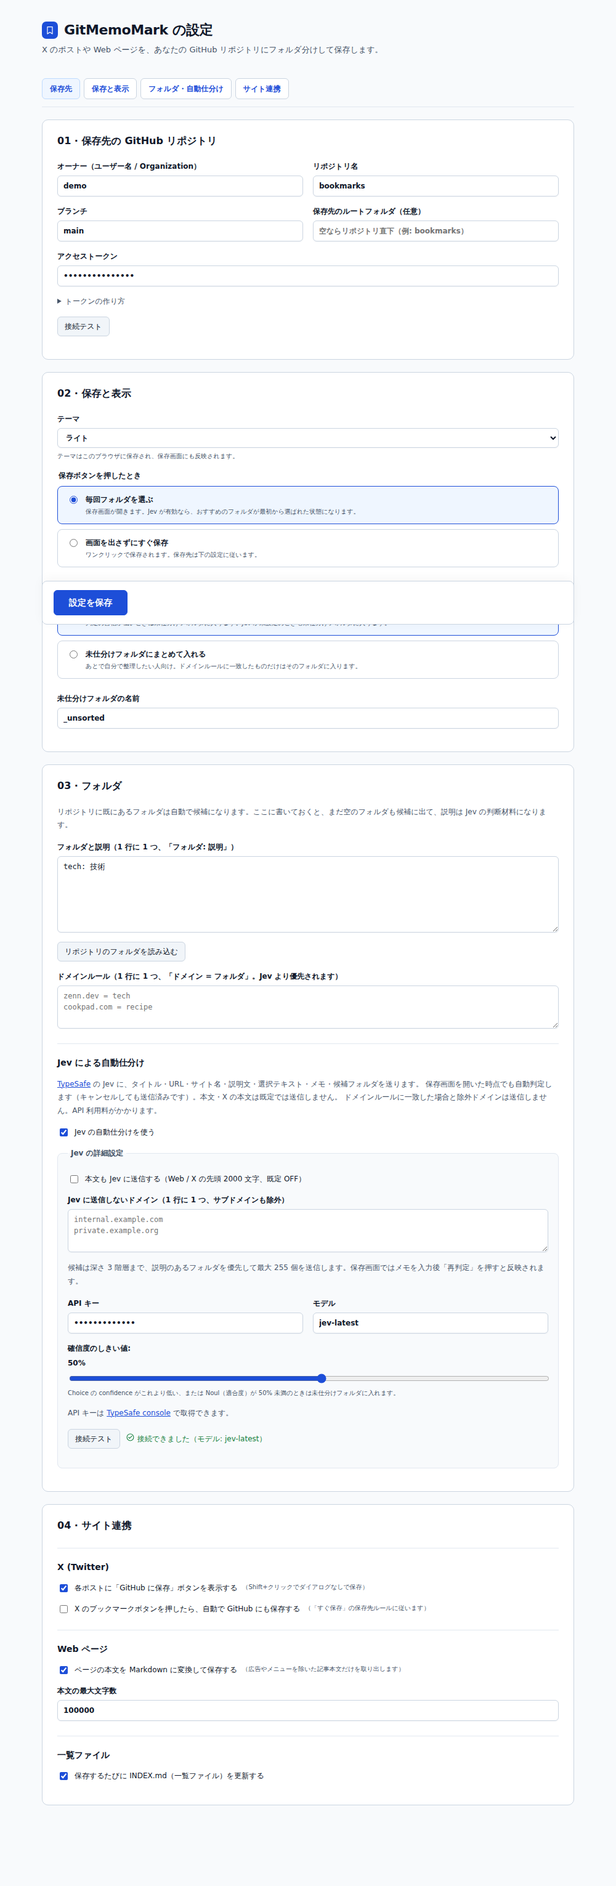
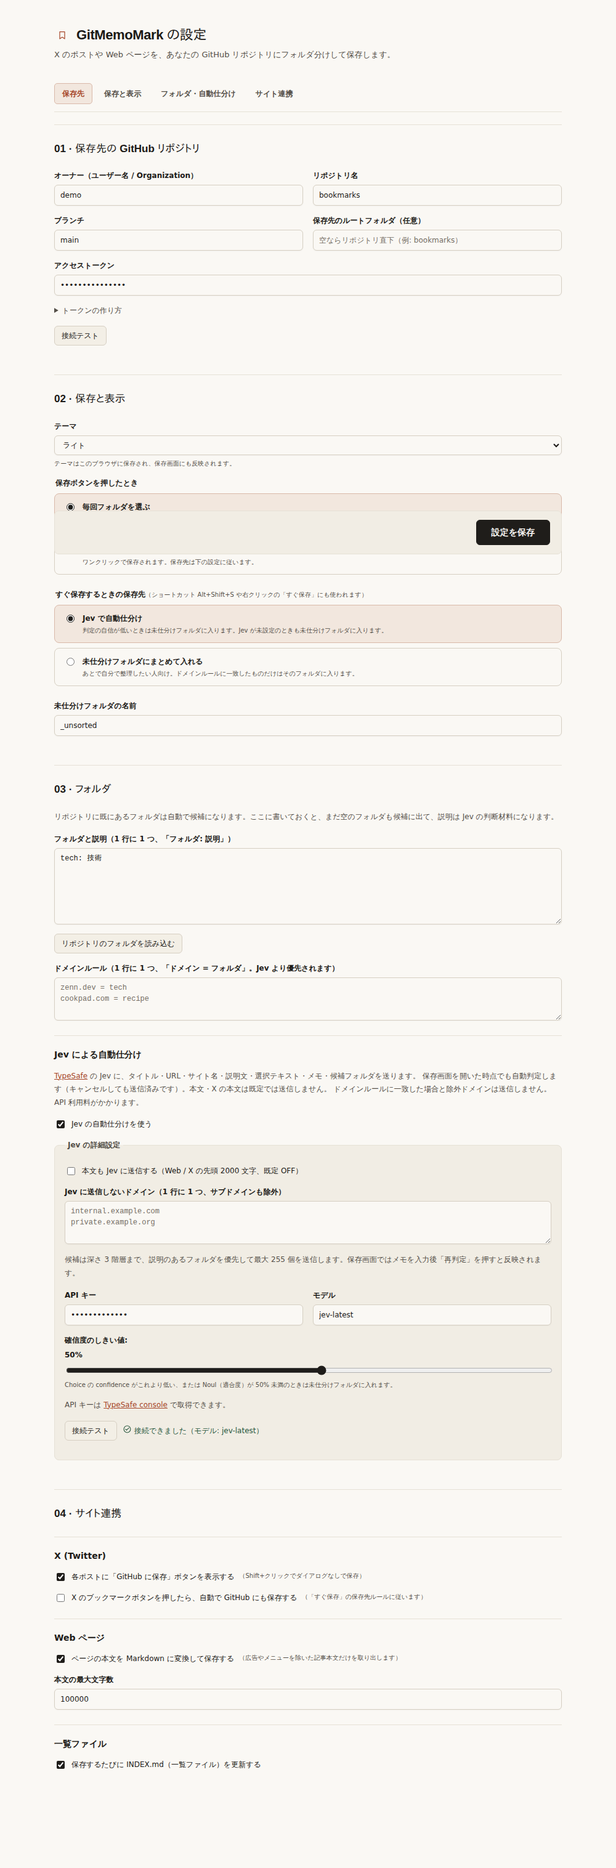
Release v0.2.0 Quiet Editorial UI with paper and ink themes

diff --git a/src/popup/popup.css b/src/popup/popup.css
@@ -1,1 +1,17 @@
-body{width:400px;height:560px;max-height:580px;background:var(--bg-surface);display:flex;flex-direction:column;overflow:hidden}body.window{width:100%;max-width:580px;margin:auto;height:min(580px,100vh)}header{display:flex;align-items:center;gap:6px;padding:12px 14px;border-bottom:1px solid var(--border-subtle);flex:none}h1{display:flex;align-items:center;gap:7px;font-size:14px;margin:0;white-space:nowrap}.repo-label{font:10px ui-monospace,monospace;color:var(--fg-muted);overflow:hidden;white-space:nowrap;text-overflow:ellipsis;margin-left:auto;max-width:120px}.icon-btn{border:0;background:transparent;padding:6px;color:var(--fg-muted);flex:none}#form{display:flex;flex:1;min-height:0;flex-direction:column}.popup-body{padding:14px 16px 4px;overflow-y:auto;min-height:0;flex:1;scrollbar-gutter:stable}.target-card{padding:11px 12px;border:1px solid var(--border-default);border-radius:8px;margin-bottom:12px;background:var(--bg-canvas)}.preview{display:flex;gap:8px;align-items:center;min-width:0;margin-bottom:7px}.badge{font-size:10px;font-weight:600;color:var(--fg-muted);border:1px solid var(--border-default);border-radius:4px;padding:1px 6px;white-space:nowrap}#url{font-size:11px;color:var(--fg-muted);overflow:hidden;text-overflow:ellipsis;white-space:nowrap}.field{display:flex;flex-direction:column;gap:5px;margin-bottom:10px}.field>span,.field-head>label{font-size:12px;font-weight:600}.title-field{margin-bottom:8px}.title-field>span{position:absolute;width:1px;height:1px;overflow:hidden;clip-path:inset(50%)}#title{font-weight:600;background:var(--bg-surface)}.field-head{display:flex;align-items:center;justify-content:space-between}.ghost{background:transparent;border:0;color:var(--accent-text);font-size:11px;padding:2px 0}.ghost svg{width:12px;height:12px}.folder-row{display:flex;gap:6px}.folder-row select{flex:1;min-width:0}.folder-row button{flex:none}#new-folder{margin-top:3px}.hint{white-space:pre-line;font-size:11px;margin:1px 0 0}.hint:empty{display:none}.check{display:flex;align-items:center;gap:5px;font-size:11px;flex-wrap:wrap}.check input{margin:0}.check small{font-size:10px;margin-left:auto}.content-row{margin-top:8px}details{margin-top:8px;border-top:1px solid var(--border-subtle);padding-top:6px}summary{cursor:pointer;color:var(--accent-text);font-size:11px}.preview-label{font-size:10px;color:var(--fg-muted);margin:6px 0}#excerpt,#content-preview{max-height:155px;overflow:auto;white-space:pre-wrap;overflow-wrap:anywhere;font-size:11px;margin:6px 0}#content-preview{font-family:ui-monospace,monospace}.save-footer{flex:none;padding:12px 16px;border-top:1px solid var(--border-subtle);background:var(--bg-surface)}#save{display:flex;align-items:center;justify-content:center;gap:7px;width:100%;padding:10px}#save small{color:#fff;font-size:10px;margin-left:auto;opacity:.85}.status{margin:6px 0 0;white-space:pre-line;font-size:11px;overflow-wrap:anywhere;max-height:64px;overflow-y:auto}.status:empty{display:none}.status.ok::before,.status.ng::before{content:"";display:inline-block;width:12px;height:12px;margin-right:5px;background:currentColor;mask:url("../styles/status.svg") center/contain no-repeat}#setup{padding:24px 20px}#setup h2{font-size:16px}#setup p{color:var(--fg-muted)}@media(max-width:360px){body{width:100%}.repo-label{display:none}header .icon-btn:first-of-type{margin-left:auto}}
+/* Quiet Editorial: a manuscript above an archival colophon. */
+body{width:400px;height:496px;max-height:580px;background:var(--bg-surface);display:flex;flex-direction:column;overflow:hidden}
+body.window{width:100%;max-width:580px;margin:auto;height:min(580px,100vh)}
+header{display:flex;align-items:center;gap:5px;padding:13px 20px 8px 24px;flex:none}
+h1{display:flex;align-items:center;gap:7px;font-size:12px;font-weight:600;color:var(--fg-muted);margin:0;white-space:nowrap}
+.brand-mark{width:13px;height:16px}.brand-mark svg{width:13px;height:13px}
+.repo-label{font:11px var(--font-mono);color:var(--fg-subtle);overflow:hidden;white-space:nowrap;text-overflow:ellipsis;flex:1;min-width:0;margin-left:3px}.repo-label:not(:empty)::before{content:"/";margin-right:7px;color:var(--border-strong)}
+.icon-btn{border:0;background:transparent;padding:5px;color:var(--fg-subtle);flex:none;width:26px;height:26px}.icon-btn svg{width:15px;height:15px}
+#form{display:flex;flex:1;min-height:0;flex-direction:column}.popup-body{overflow-y:auto;min-height:0;flex:1;scrollbar-width:thin;scroll-padding:12px 0;display:flex;flex-direction:column}.manuscript-zone{padding:4px 24px 16px;flex:none}.target-card{margin:0;padding:0;border:0}.preview{display:flex;gap:7px;align-items:center;min-width:0;margin-bottom:7px}.badge{font-size:11px;font-weight:600;color:var(--fg-muted);background:var(--bg-subtle);border-radius:4px;padding:1px 7px;white-space:nowrap}#url{font-size:12px;color:var(--fg-subtle);overflow:hidden;text-overflow:ellipsis;white-space:nowrap;text-decoration:none;flex:1}#url:hover{text-decoration:underline}.edit-nib{width:12px;height:12px;color:var(--fg-subtle)}
+.visually-hidden,.hint.quiet{position:absolute;width:1px;height:1px;overflow:hidden;clip-path:inset(50%)}
+#title{display:block;width:calc(100% + 10px);height:58px;min-height:58px;max-height:104px;margin:0 -5px;padding:3px 5px;border:1px solid transparent;border-radius:6px;background:transparent;box-shadow:none;font:600 17px/1.48 var(--font-headline);letter-spacing:-.01em;resize:none;overflow-y:auto}
+#title:hover{background:var(--bg-subtle-hover)}#title:focus{outline:none;background:var(--bg-control);border-color:var(--accent-border);box-shadow:0 0 0 3px var(--focus-ring)}
+.capture-bar{position:relative;margin-top:9px;min-height:26px}.content-row{padding:4px 91px 4px 0}.check{display:flex;align-items:center;gap:6px;color:var(--fg-muted);font-size:12px;flex-wrap:wrap}.check input{margin:0;width:15px;height:15px;flex:none}.check small{font-size:11px;color:var(--fg-subtle);white-space:nowrap}.check small::before{content:"· ";}details{margin:0}summary{position:absolute;right:-5px;top:0;display:flex;align-items:center;gap:4px;cursor:pointer;color:var(--fg-muted);font-size:12px;padding:4px 5px;border-radius:5px;list-style:none}summary::-webkit-details-marker{display:none}summary svg{width:12px;height:12px}details[open] summary{background:var(--accent-subtle);color:var(--accent-text)}details[open] summary svg{transform:rotate(180deg)}.capture-bar:has(.content-row[hidden]){min-height:26px}.preview-sheet{margin-top:8px;padding:9px 11px;border-left:2px solid var(--accent-text);border-radius:0 6px 6px 0;background:var(--bg-subtle);max-height:150px;overflow-y:auto}.preview-label{font-size:10px;color:var(--fg-subtle);margin:0 0 4px}#excerpt,#content-preview{white-space:pre-wrap;overflow-wrap:anywhere;font-size:11.5px;color:var(--fg-muted);margin:0 0 7px}#content-preview{font:11.5px/1.55 var(--font-mono)}
+.marginalia{border-top:1px solid var(--border-subtle);margin-top:14px;padding-top:12px}.marginalia-head{display:flex;align-items:center;justify-content:space-between;margin-bottom:5px;font-size:12px;color:var(--fg-muted)}.marginalia-head label{font-weight:600}.marginalia-head span{font-size:11px;color:var(--fg-subtle)}.marginalia-well{border-left:2px solid var(--border-default);padding-left:11px}.marginalia-well:focus-within{border-color:var(--accent-text)}#memo{display:block;height:44px;min-height:44px;max-height:150px;border:0;padding:1px 0;background:transparent;box-shadow:none;font:400 13px/1.62 var(--font-sans);resize:vertical}#memo:focus{outline:none;box-shadow:none}
+.colophon-tray{background:var(--bg-canvas);border-top:1px solid var(--border-subtle);padding:13px 24px 14px;display:flex;flex-direction:column;gap:9px;flex:1}.field{display:flex;flex-direction:column;gap:6px}.field-head{display:flex;align-items:center;justify-content:space-between;gap:4px}.filing-title{display:flex;align-items:center;gap:7px;min-width:0}.filing-title label{font-size:12px;font-weight:500;white-space:nowrap;color:var(--fg-muted)}.jev-seal{font-size:10px;white-space:nowrap;padding:1px 6px;border-radius:99px;background:var(--accent-subtle);border:1px solid var(--accent-border);color:var(--accent-text)}.filing-actions{display:flex;gap:1px;margin-right:-5px;flex:none}.ghost{display:inline-flex;align-items:center;gap:2px;background:transparent;border:0;color:var(--fg-muted);font-size:11px;padding:3px 4px;white-space:nowrap}.ghost svg{width:11px;height:11px}.ghost[aria-expanded=true]{background:var(--accent-subtle);color:var(--accent-text)}.folder-row{position:relative}.folder-icon{position:absolute;left:10px;top:11px;width:14px;height:14px;color:var(--fg-subtle);pointer-events:none}#folder{height:36px;padding-left:32px;font-size:13px}#new-folder{height:34px;font:12px var(--font-mono)}.hint{white-space:pre-line;font-size:11px;margin:0;overflow-wrap:anywhere}.hint:empty{display:none}.tags-ledger{display:flex;align-items:center;height:35px;padding:0 10px;border:1px solid var(--border-default);border-radius:7px;background:var(--bg-control)}.tags-ledger label{flex:none;padding-right:9px;margin-right:9px;border-right:1px solid var(--border-subtle);font-size:12px;color:var(--fg-muted)}#tags{flex:1;min-width:0;border:0;padding:0;background:transparent;box-shadow:none;font-size:12.5px}#tags:focus{outline:none;box-shadow:none}.tags-ledger:focus-within{border-color:var(--accent-text);box-shadow:0 0 0 3px var(--focus-ring)}
+.save-footer{flex:none;padding:11px 24px 14px;border-top:1px solid var(--border-subtle);background:var(--bg-canvas)}.footer-actions{display:flex;align-items:center;justify-content:space-between;gap:12px}.shortcut-caption{font-size:11px;color:var(--fg-muted);white-space:nowrap}kbd{font:10px var(--font-mono);padding:1px 4px;border-radius:4px;background:var(--bg-control);border:1px solid var(--border-default);color:var(--fg-muted)}#save{display:inline-flex;align-items:center;justify-content:center;gap:7px;height:36px;padding:0 16px;flex:none;font-size:13px}#save svg{width:13px;height:13px}.status{margin:8px 0 0;white-space:pre-line;font-size:11px;overflow-wrap:anywhere;max-height:64px;overflow-y:auto}.status:empty{display:none}.status.ok::before,.status.ng::before{content:"";display:inline-block;width:12px;height:12px;margin-right:5px;background:currentColor;mask:url("../styles/status.svg") center/contain no-repeat}#setup{padding:24px}#setup h2{font-size:16px}#setup p{color:var(--fg-muted)}
+@media(max-width:360px){body{width:100%}header{padding-inline:16px}.repo-label{display:none}header .icon-btn:first-of-type{margin-left:auto}.manuscript-zone,.colophon-tray,.save-footer{padding-inline:16px}.jev-seal{font-size:9px}.filing-title{gap:4px}.shortcut-caption{font-size:10px}#save{padding-inline:10px}}

diff --git a/src/styles/tokens.css b/src/styles/tokens.css
@@ -1,32 +1,37 @@
+:root {
+  --font-sans: -apple-system,BlinkMacSystemFont,"Hiragino Sans","Hiragino Kaku Gothic ProN","Yu Gothic UI","Yu Gothic","BIZ UDPGothic","Noto Sans JP","Liberation Sans","IPAPGothic",system-ui,sans-serif;
+  --font-headline: "Hiragino Mincho ProN","Yu Mincho","BIZ UDPMincho","Noto Serif JP",var(--font-sans);
+  --font-mono: ui-monospace,"SFMono-Regular",Menlo,Consolas,"Liberation Mono",monospace;
+}
 :root, :root[data-theme="light"] {
         color-scheme: light;
-        --bg-canvas: #f8fafc;
-        --bg-surface: #ffffff;
-        --bg-subtle: #f1f5f9;
-        --bg-subtle-hover: #e2e8f0;
-        --bg-control: #ffffff;
-        --bg-elevated: #ffffff;
+        --bg-canvas: #f1ede4;
+        --bg-surface: #faf8f4;
+        --bg-subtle: #f3efe6;
+        --bg-subtle-hover: #e6e1d6;
+        --bg-control: #faf8f4;
+        --bg-elevated: #faf8f4;
 
-        --fg-default: #0f172a;
-        --fg-muted: #475569;
-        --fg-subtle: #64748b;
-        --fg-on-accent: #ffffff;
+        --fg-default: #1c1a17;
+        --fg-muted: #544f48;
+        --fg-subtle: #766f66;
+        --fg-on-accent: #faf8f4;
 
-        --border-subtle: #e2e8f0;
-        --border-default: #cbd5e1;
-        --border-strong: #94a3b8;
+        --border-subtle: #e6e1d6;
+        --border-default: #d6cfc2;
+        --border-strong: #aea79d;
 
-        --accent-solid: #1d4ed8;
-        --accent-hover: #1e40af;
-        --accent-active: #1e3a8a;
-        --accent-text: #1d4ed8;
-        --accent-subtle: #eff6ff;
-        --accent-border: #bfdbfe;
-        --focus-ring: rgba(29, 78, 216, 0.22);
+        --accent-solid: #1f1d1a;
+        --accent-hover: #322f2a;
+        --accent-active: #171614;
+        --accent-text: #a64629;
+        --accent-subtle: #f2e7de;
+        --accent-border: #d9b9a9;
+        --focus-ring: rgba(166,70,41,.22);
 
-        --ok-fg: #15803d;
-        --ok-bg: #f0fdf4;
-        --ok-border: #bbf7d0;
+        --ok-fg: #28573d;
+        --ok-bg: #e6efe8;
+        --ok-border: #c3d7c8;
 
         --warn-fg: #b45309;
         --warn-bg: #fffbeb;
@@ -41,31 +46,31 @@
       }
 :root[data-theme="dark"] {
         color-scheme: dark;
-        --bg-canvas: #0b0f17;
-        --bg-surface: #111827;
-        --bg-subtle: #1e293b;
-        --bg-subtle-hover: #283548;
-        --bg-control: #0d1320;
-        --bg-elevated: #172033;
+        --bg-canvas: #141311;
+        --bg-surface: #1b1917;
+        --bg-subtle: #2c2925;
+        --bg-subtle-hover: #282521;
+        --bg-control: #211f1c;
+        --bg-elevated: #23201d;
 
-        --fg-default: #f1f5f9;
-        --fg-muted: #94a3b8;
-        --fg-subtle: #8494a9;
-        --fg-on-accent: #ffffff;
+        --fg-default: #efece4;
+        --fg-muted: #aea79d;
+        --fg-subtle: #a39b90;
+        --fg-on-accent: #171614;
 
-        --border-subtle: #1e293b;
-        --border-default: #2a3649;
-        --border-strong: #475569;
+        --border-subtle: #2c2925;
+        --border-default: #494239;
+        --border-strong: #544f48;
 
-        --accent-solid: #2563eb;
-        --accent-hover: #2f6feb;
-        --accent-active: #1d4ed8;
-        --accent-text: #60a5fa;
-        --accent-subtle: rgba(59, 130, 246, 0.14);
-        --accent-border: rgba(96, 165, 250, 0.32);
-        --focus-ring: rgba(96, 165, 250, 0.28);
+        --accent-solid: #ede9e0;
+        --accent-hover: #ffffff;
+        --accent-active: #ded8cb;
+        --accent-text: #dc7c5c;
+        --accent-subtle: rgba(220,124,92,.14);
+        --accent-border: rgba(220,124,92,.3);
+        --focus-ring: rgba(220,124,92,.26);
 
-        --ok-fg: #4ade80;
+        --ok-fg: #92d3ab;
         --ok-bg: rgba(34, 197, 94, 0.12);
         --ok-border: rgba(74, 222, 128, 0.28);
 
@@ -82,31 +87,31 @@
       }
 @media(prefers-color-scheme:dark){:root:not([data-theme]) {
         color-scheme: dark;
-        --bg-canvas: #0b0f17;
-        --bg-surface: #111827;
-        --bg-subtle: #1e293b;
-        --bg-subtle-hover: #283548;
-        --bg-control: #0d1320;
-        --bg-elevated: #172033;
+        --bg-canvas: #141311;
+        --bg-surface: #1b1917;
+        --bg-subtle: #2c2925;
+        --bg-subtle-hover: #282521;
+        --bg-control: #211f1c;
+        --bg-elevated: #23201d;
 
-        --fg-default: #f1f5f9;
-        --fg-muted: #94a3b8;
-        --fg-subtle: #8494a9;
-        --fg-on-accent: #ffffff;
+        --fg-default: #efece4;
+        --fg-muted: #aea79d;
+        --fg-subtle: #a39b90;
+        --fg-on-accent: #171614;
 
-        --border-subtle: #1e293b;
-        --border-default: #2a3649;
-        --border-strong: #475569;
+        --border-subtle: #2c2925;
+        --border-default: #494239;
+        --border-strong: #544f48;
 
-        --accent-solid: #2563eb;
-        --accent-hover: #2f6feb;
-        --accent-active: #1d4ed8;
-        --accent-text: #60a5fa;
-        --accent-subtle: rgba(59, 130, 246, 0.14);
-        --accent-border: rgba(96, 165, 250, 0.32);
-        --focus-ring: rgba(96, 165, 250, 0.28);
+        --accent-solid: #ede9e0;
+        --accent-hover: #ffffff;
+        --accent-active: #ded8cb;
+        --accent-text: #dc7c5c;
+        --accent-subtle: rgba(220,124,92,.14);
+        --accent-border: rgba(220,124,92,.3);
+        --focus-ring: rgba(220,124,92,.26);
 
-        --ok-fg: #4ade80;
+        --ok-fg: #92d3ab;
         --ok-bg: rgba(34, 197, 94, 0.12);
         --ok-border: rgba(74, 222, 128, 0.28);
 
@@ -121,4 +126,6 @@
         --control-shadow: inset 0 1px 2px rgba(0, 0, 0, 0.25);
         --popup-shadow: 0 20px 44px -8px rgba(0, 0, 0, 0.6), 0 0 0 1px rgba(255, 255, 255, 0.08);
       }}
-*{box-sizing:border-box} [hidden]{display:none!important} html{background:var(--bg-canvas);color:var(--fg-default);font:13px/1.5 system-ui,-apple-system,"Segoe UI","Hiragino Sans",sans-serif}body{margin:0}button,input,select,textarea{font:inherit}button{cursor:pointer}input:not([type=checkbox]):not([type=radio]):not([type=range]),select,textarea{width:100%;min-width:0;padding:7px 9px;border:1px solid var(--border-default);border-radius:6px;background:var(--bg-control);color:var(--fg-default);box-shadow:var(--control-shadow)}input[type=checkbox],input[type=radio],input[type=range]{accent-color:var(--accent-solid)}textarea{resize:vertical}button{border:1px solid var(--border-default);border-radius:6px;padding:6px 11px;background:var(--bg-subtle);color:var(--fg-default)}button:hover{background:var(--bg-subtle-hover)}button:disabled{opacity:.55;cursor:default}.primary{background:var(--accent-solid);border-color:var(--accent-solid);color:#fff;font-weight:600}.primary:hover{background:var(--accent-hover)}a{color:var(--accent-text)}small,.note,.hint{color:var(--fg-muted);font-weight:400}:focus-visible{outline:2px solid var(--accent-text);outline-offset:3px;box-shadow:0 0 0 4px var(--focus-ring)}svg{width:16px;height:16px;flex:none;vertical-align:middle;fill:none;stroke:currentColor;stroke-width:1.8;stroke-linecap:round;stroke-linejoin:round}.brand-mark{display:inline-flex;align-items:center;justify-content:center;width:26px;height:28px;border-radius:7px;background:var(--accent-solid);color:white}.ok{color:var(--ok-fg)}.ng{color:var(--ng-fg)}.status.status.ok::before,.result.result.ok::before{mask-image:url("check.svg")}@media(prefers-reduced-motion:reduce){*,*::before,*::after{scroll-behavior:auto!important;animation:none!important;transition:none!important}}
+*{box-sizing:border-box} [hidden]{display:none!important} html{background:var(--bg-canvas);color:var(--fg-default);font:13px/1.5 var(--font-sans);-webkit-font-smoothing:antialiased}body{margin:0}button,input,select,textarea{font:inherit}button{cursor:pointer}input:not([type=checkbox]):not([type=radio]):not([type=range]),select,textarea{width:100%;min-width:0;padding:7px 9px;border:1px solid var(--border-default);border-radius:6px;background:var(--bg-control);color:var(--fg-default);box-shadow:var(--control-shadow)}input[type=checkbox],input[type=radio],input[type=range]{accent-color:var(--accent-solid)}textarea{resize:vertical}button{border:1px solid var(--border-default);border-radius:6px;padding:6px 11px;background:var(--bg-subtle);color:var(--fg-default)}button:hover{background:var(--bg-subtle-hover)}button:disabled{opacity:.55;cursor:default}.primary{background:var(--accent-solid);border-color:var(--accent-solid);color:var(--fg-on-accent);font-weight:600}.primary:hover{background:var(--accent-hover)}a{color:var(--accent-text)}small,.note,.hint{color:var(--fg-muted);font-weight:400}:focus-visible{outline:2px solid var(--accent-text);outline-offset:3px;box-shadow:0 0 0 4px var(--focus-ring)}svg{width:16px;height:16px;flex:none;vertical-align:middle;fill:none;stroke:currentColor;stroke-width:1.8;stroke-linecap:round;stroke-linejoin:round}.brand-mark{display:inline-flex;align-items:center;justify-content:center;width:26px;height:28px;border-radius:7px;background:var(--accent-solid);color:white}.ok{color:var(--ok-fg)}.ng{color:var(--ng-fg)}.status.status.ok::before,.result.result.ok::before{mask-image:url("check.svg")}@media(prefers-reduced-motion:reduce){*,*::before,*::after{scroll-behavior:auto!important;animation:none!important;transition:none!important}}
+
+.brand-mark{background:transparent;color:var(--accent-text);border-radius:0}::placeholder{color:var(--fg-subtle);opacity:1}input,select{font-weight:400}

diff --git a/src/options/options.css b/src/options/options.css
@@ -1,1 +1,65 @@
-html{scroll-padding-top:112px;scroll-padding-bottom:128px}input,select,textarea,button,summary,a{scroll-margin-top:112px;scroll-margin-bottom:128px}body{font-size:14px}main{max-width:920px;margin:0 auto;padding:32px 28px 40px}h1{display:flex;align-items:center;gap:10px;font-size:22px;letter-spacing:-.4px;margin:0 0 6px}.lead{color:var(--fg-muted);margin:0 0 24px;font-size:13px}nav{display:flex;gap:6px;flex-wrap:wrap;position:sticky;top:0;z-index:2;background:var(--bg-canvas);padding:12px 0;border-bottom:1px solid var(--border-subtle);margin-bottom:20px}nav a{padding:7px 12px;background:var(--bg-surface);border:1px solid var(--border-default);border-radius:6px;text-decoration:none;font-size:12px;font-weight:600}nav a:hover,nav a[aria-current]{color:var(--accent-text);background:var(--accent-subtle);border-color:var(--accent-border)}section{background:var(--bg-surface);border:1px solid var(--border-default);border-radius:10px;padding:22px 24px;margin-bottom:20px;scroll-margin-top:80px}h2{margin:0 0 20px;font-size:16px}h3{margin:24px 0 14px;padding-top:20px;border-top:1px solid var(--border-subtle);font-size:14px}label{display:flex;flex-direction:column;gap:6px;margin-bottom:15px;font-weight:600;font-size:12px}label small,legend small{color:var(--fg-muted);font-weight:400}.grid{display:grid;grid-template-columns:repeat(2,minmax(0,1fr));gap:0 16px}textarea{font-family:ui-monospace,SFMono-Regular,monospace;font-size:12px;font-weight:400}input[type=range]{width:100%}fieldset{border:0;padding:0;margin:0 0 15px;min-width:0}legend{font-size:12px;font-weight:600;margin-bottom:8px}label.choice{flex-direction:row;align-items:flex-start;gap:10px;padding:12px 14px;border:1px solid var(--border-default);border-radius:8px;margin-bottom:8px;cursor:pointer;font-weight:400}label.choice:has(input:checked){border-color:var(--accent-text);background:var(--accent-subtle)}label.choice span{display:flex;flex-direction:column;gap:3px}label.choice input,label.check input{margin-top:3px;flex:none}label.check{flex-direction:row;align-items:flex-start;flex-wrap:wrap;gap:8px;font-weight:400}.note{font-size:12px;line-height:1.8;margin:0 0 15px}.help{font-size:12px;margin:0 0 16px;color:var(--fg-muted)}summary{cursor:pointer}.row{display:flex;gap:10px;align-items:center;flex-wrap:wrap;margin-bottom:15px}.secondary{font-size:12px}.result{font-size:12px;overflow-wrap:anywhere}.result.ok::before,.result.ng::before{content:"";display:inline-block;width:13px;height:13px;background:currentColor;mask:url("../styles/status.svg") center/contain no-repeat;margin-right:5px}.savebar{position:sticky;bottom:0;display:flex;align-items:center;gap:14px;padding:14px 18px;background:var(--bg-surface);border:1px solid var(--border-default);border-radius:8px;box-shadow:0 -4px 18px rgb(0 0 0 / .04);z-index:2}.savebar .primary{padding:9px 24px}#jev-fields{padding:16px;border:1px solid var(--border-subtle);border-radius:8px;background:var(--bg-canvas);margin-top:14px}#jev-fields legend{padding:0 5px;color:var(--fg-muted)}@media(max-width:600px){main{padding:20px 14px}h1{font-size:19px}.grid{grid-template-columns:1fr}section{padding:18px 16px}nav{gap:4px}nav a{font-size:11px;padding:7px 9px}.savebar{flex-wrap:wrap}}
+html{scroll-padding-top:112px;scroll-padding-bottom:128px}
+input,select,textarea,button,summary,a{scroll-margin-top:112px;scroll-margin-bottom:128px}
+body{font-size:14px;background:var(--bg-surface)}
+main{max-width:880px;margin:0 auto;padding:40px 28px 40px}
+h1{display:flex;align-items:center;gap:10px;font:600 22px/1.5 var(--font-headline);letter-spacing:-.4px;margin:0 0 6px}
+.lead{color:var(--fg-muted);margin:0 0 24px;font-size:13px}
+nav{display:flex;gap:6px;flex-wrap:wrap;position:sticky;top:0;z-index:2;background:var(--bg-surface);padding:12px 0;border-bottom:1px solid var(--border-subtle);margin-bottom:20px}
+nav a{padding:7px 12px;background:transparent;border:1px solid transparent;border-radius:5px;text-decoration:none;font-size:12px;font-weight:600}
+nav a:hover,nav a[aria-current]{color:var(--accent-text);background:var(--accent-subtle);border-color:var(--accent-border)}
+section{background:transparent;border:0;border-top:1px solid var(--border-subtle);border-radius:0;padding:26px 0 14px;margin-bottom:18px;scroll-margin-top:112px}
+h2{margin:0 0 22px;font:600 17px/1.5 var(--font-headline)}
+h3{margin:24px 0 14px;padding-top:20px;border-top:1px solid var(--border-subtle);font-size:14px}
+label{display:flex;flex-direction:column;gap:6px;margin-bottom:15px;font-weight:600;font-size:12px}
+label small,legend small{color:var(--fg-muted);font-weight:400}
+.grid{display:grid;grid-template-columns:repeat(2,minmax(0,1fr));gap:0 16px}
+textarea{font-family:var(--font-mono),var(--font-sans);font-size:12px;font-weight:400}
+input[type=range]{width:100%}
+fieldset{border:0;padding:0;margin:0 0 15px;min-width:0}
+legend{font-size:12px;font-weight:600;margin-bottom:8px}
+label.choice{flex-direction:row;align-items:flex-start;gap:10px;padding:12px 14px;border:1px solid var(--border-default);border-radius:8px;margin-bottom:8px;cursor:pointer;font-weight:400}
+label.choice:has(input:checked){border-color:var(--accent-border);background:var(--accent-subtle)}
+label.choice span{display:flex;flex-direction:column;gap:3px}
+label.choice input,label.check input{margin-top:3px;flex:none}
+label.check{flex-direction:row;align-items:flex-start;flex-wrap:wrap;gap:8px;font-weight:400}
+.note{font-size:12px;line-height:1.8;margin:0 0 15px}
+.help{font-size:12px;margin:0 0 16px;color:var(--fg-muted)}
+summary{cursor:pointer}
+.row{display:flex;gap:10px;align-items:center;flex-wrap:wrap;margin-bottom:15px}
+.secondary{font-size:12px}
+.result{font-size:12px;overflow-wrap:anywhere}
+.result.ok::before,.result.ng::before{content:"";display:inline-block;width:13px;height:13px;background:currentColor;mask:url("../styles/status.svg") center/contain no-repeat;margin-right:5px}
+.savebar{position:sticky;bottom:0;display:flex;align-items:center;gap:14px;padding:14px 18px;background:var(--bg-canvas);border:1px solid var(--border-subtle);border-radius:7px;box-shadow:none;z-index:2}
+.savebar .primary{padding:9px 24px}
+#jev-fields{padding:16px;border:1px solid var(--border-subtle);border-radius:8px;background:var(--bg-canvas);margin-top:14px}
+#jev-fields legend{padding:0 5px;color:var(--fg-muted)}
+@media(max-width:600px){main{padding:20px 14px}
+h1{font-size:19px}
+.grid{grid-template-columns:1fr}
+section{padding:22px 0 12px}
+nav{gap:4px}
+nav a{font-size:11px;padding:7px 9px}
+.savebar{flex-wrap:wrap}
+}
+
+
+/* Both scroll containers and focus targets clear the sticky folio and save tray. */
+input,select,textarea{font-weight:400}
+nav a{color:var(--fg-muted)}
+.savebar .primary{margin-left:auto;order:2}
+.savebar .result{min-width:0;flex:1}
+.help ol{padding-left:20px}
+.help li{margin-bottom:7px}
+a{overflow-wrap:anywhere}
+.choice span{min-width:0}
+.savebar{scroll-margin-top:112px}
+#jev-fields{background:var(--bg-canvas)}
+
+@media(max-width:360px){main{padding:24px 16px}
+nav a{padding:7px 6px}
+#jev-fields{padding:12px}
+.savebar{padding:12px}
+.savebar .primary{padding:9px 14px}
+h1{font-size:18px}
+.brand-mark{width:18px}
+}

diff --git a/src/popup/popup.html b/src/popup/popup.html
@@ -10,7 +10,7 @@
 </head>
 <body>
   <header>
-    <h1><span class="brand-mark" aria-hidden="true"><svg viewBox="0 0 24 24"><path d="M6 21V4h12v17l-6-4z"/><circle cx="12" cy="9" r="1.5"/></svg></span> GitMemoMark</h1>
+    <h1><span class="brand-mark" aria-hidden="true"><svg viewBox="0 0 24 24"><path d="M6 3h12v18l-6-4-6 4z"/></svg></span> GitMemoMark</h1>
     <span id="repo-label" class="repo-label"></span>
     <button id="theme-toggle" class="icon-btn" type="button" aria-label="テーマ切替"><svg viewBox="0 0 24 24" aria-hidden="true"><circle cx="12" cy="12" r="8"/><path d="M12 4v16"/></svg></button>
     <button id="open-options" class="icon-btn" type="button" title="設定" aria-label="設定"><svg viewBox="0 0 24 24" aria-hidden="true"><path d="M9 3h6l1 3 3 1 2 5-2 5-3 1-1 3H9l-1-3-3-1-2-5 2-5 3-1z"/><circle cx="12" cy="12" r="3"/></svg></button>
@@ -18,22 +18,31 @@
   <section id="setup" hidden><h2>保存先を設定しましょう</h2><p>あなたの GitHub リポジトリに、気になった情報を残せます。</p><button id="setup-btn" type="button" class="primary">設定を開く</button></section>
   <form id="form" hidden>
     <div class="popup-body">
-      <section class="target-card" aria-label="保存するページ">
-        <div class="preview"><span id="source-badge" class="badge">Web</span><a id="url" target="_blank" rel="noreferrer"></a></div>
-        <label class="field title-field"><span>タイトル</span><input id="title" type="text" required /></label>
-        <div id="content-row" class="content-row" hidden><label class="check"><input id="with-content" type="checkbox" checked />本文を Markdown 保存 <small id="content-len"></small></label></div>
-        <details id="preview-box" hidden><summary>プレビュー</summary><div id="excerpt-box" hidden><p class="preview-label">抜粋 / 本文</p><p id="excerpt"></p></div><pre id="content-preview" hidden></pre></details>
-      </section>
-      <div class="field">
-        <div class="field-head"><label for="folder">フォルダ</label><button id="reclassify" type="button" class="ghost" title="現在のタイトルとメモで再判定"><svg viewBox="0 0 24 24" aria-hidden="true"><path d="M20 7a9 9 0 1 0 1 8M20 3v5h-5"/></svg> 再判定</button></div>
-        <div class="folder-row"><select id="folder" aria-label="フォルダ"></select><button id="new-folder-btn" type="button" class="secondary" aria-expanded="false" aria-controls="new-folder"><svg viewBox="0 0 24 24" aria-hidden="true"><path d="M12 5v14M5 12h14"/></svg> 新規</button></div>
-        <input id="new-folder" type="text" aria-label="新規フォルダ" placeholder="例: tech/react（/ で入れ子にできます）" hidden />
-        <p id="suggest" class="hint" aria-live="polite"></p>
+      <div class="manuscript-zone">
+        <section class="target-card" aria-label="保存するページ">
+          <div class="preview"><span id="source-badge" class="badge">Web</span><a id="url" target="_blank" rel="noreferrer"></a><svg class="edit-nib" viewBox="0 0 24 24" aria-hidden="true"><path d="m16 4 4 4-12 12-5 1 1-5zM12 21h9"/></svg></div>
+          <label class="title-field"><span class="visually-hidden">タイトル</span><textarea id="title" rows="2" required></textarea></label>
+          <div class="capture-bar">
+            <div id="content-row" class="content-row" hidden><label class="check"><input id="with-content" type="checkbox" checked /><span>本文を Markdown 保存</span><small id="content-len"></small></label></div>
+            <details id="preview-box" hidden><summary>プレビュー <svg viewBox="0 0 24 24" aria-hidden="true"><path d="m6 9 6 6 6-6"/></svg></summary><div class="preview-sheet"><div id="excerpt-box" hidden><p class="preview-label">抜粋 / 本文</p><p id="excerpt"></p></div><pre id="content-preview" hidden></pre></div></details>
+          </div>
+        </section>
+        <section class="marginalia" aria-label="メモ">
+          <div class="marginalia-head"><label for="memo">メモ</label><span>任意</span></div>
+          <div class="marginalia-well"><textarea id="memo" rows="2" placeholder="気になった理由や、あとで試すこと…"></textarea></div>
+        </section>
       </div>
-      <label class="field"><span>メモ</span><textarea id="memo" rows="2" placeholder="気になった理由や、あとで試すこと…"></textarea></label>
-      <label class="field"><span>タグ <small>カンマ・スペース区切り</small></span><input id="tags" type="text" placeholder="react, frontend" /></label>
+      <div class="colophon-tray">
+        <div class="field">
+          <div class="field-head"><div class="filing-title"><label for="folder">保存先フォルダ</label><span id="classification-seal" class="jev-seal" hidden></span></div><div class="filing-actions"><button id="reclassify" type="button" class="ghost" title="現在のタイトルとメモで再判定"><svg viewBox="0 0 24 24" aria-hidden="true"><path d="M20 7a9 9 0 1 0 1 8M20 3v5h-5"/></svg> 再判定</button><button id="new-folder-btn" type="button" class="ghost" aria-expanded="false" aria-controls="new-folder"><svg viewBox="0 0 24 24" aria-hidden="true"><path d="M12 5v14M5 12h14"/></svg> 新規</button></div></div>
+          <div class="folder-row"><svg class="folder-icon" viewBox="0 0 24 24" aria-hidden="true"><path d="M3 6h7l2 3h9v11H3z"/></svg><select id="folder" aria-label="フォルダ"></select></div>
+          <input id="new-folder" type="text" aria-label="新規フォルダ" placeholder="例: notes/reading（/ で階層化）" hidden />
+          <p id="suggest" class="hint" aria-live="polite"></p>
+        </div>
+        <div class="tags-ledger"><label for="tags">タグ</label><input id="tags" type="text" placeholder="カンマ・スペース区切り" /></div>
+      </div>
     </div>
-    <footer class="save-footer"><button id="save" type="submit" class="primary"><svg viewBox="0 0 24 24" aria-hidden="true"><path d="M6 21V4h12v17l-6-4z"/></svg> GitHub に保存 <small>Ctrl / ⌘ + Enter</small></button><p id="status" class="status" aria-live="polite"></p></footer>
+    <footer class="save-footer"><div class="footer-actions"><span class="shortcut-caption"><kbd>Ctrl</kbd> / <kbd>⌘</kbd> + <kbd>Enter</kbd></span><button id="save" type="submit" class="primary"><svg viewBox="0 0 24 24" aria-hidden="true"><path d="M6 3h12v18l-6-4-6 4z"/></svg> GitHub に保存</button></div><p id="status" class="status" aria-live="polite"></p></footer>
   </form>
   <script type="module" src="popup.js"></script>
 </body>

diff --git a/src/popup/popup.js b/src/popup/popup.js
@@ -17,7 +17,15 @@ let classificationRun = 0;
 let extractionWarning = "";
 let folderWarning = "";
 function showSuggestion(text = "") {
-  $("suggest").textContent = [extractionWarning, folderWarning, text].filter(Boolean).join("\n");
+  const message = [extractionWarning, folderWarning, text].filter(Boolean).join("\n");
+  $("suggest").textContent = message;
+  // Keep the full live-region announcement; an uncomplicated recommendation is
+  // presented as a compact seal rather than a second paragraph in the tray.
+  $("suggest").classList.toggle("quiet", !extractionWarning && !folderWarning && /^Jev のおすすめ: [^\n]+$/.test(text));
+  const recommendation = text.match(/^Jev のおすすめ: .+（(\d+%)）$/);
+  $("classification-seal").hidden = !recommendation;
+  $("classification-seal").textContent = recommendation ? `Jev 推奨 ${recommendation[1]}` : "";
+  $("classification-seal").title = text;
 }
 
 function send(msg) {
@@ -61,7 +69,8 @@ async function loadItem() {
 
 function renderItem() {
   $("source-badge").textContent = item.source === "x" ? "X ポスト" : "Web";
-  $("url").textContent = item.url;
+  $("url").textContent = item.url.replace(/^https?:\/\//, "");
+  $("url").title = item.url;
   $("url").href = item.url;
   $("title").value = item.title || item.url;
   const excerpt = item.selection || item.text || item.description || "";
@@ -166,7 +175,7 @@ $("new-folder-btn").addEventListener("click", () => {
 });
 
 $("form").addEventListener("keydown", (e) => {
-  if (e.key === "Enter" && (e.ctrlKey || e.metaKey)) {
+  if (e.key === "Enter" && (e.ctrlKey || e.metaKey) && !e.isComposing && e.keyCode !== 229) {
     e.preventDefault();
     $("form").requestSubmit();
   }

diff --git a/CHANGELOG.md b/CHANGELOG.md
@@ -1,0 +1,14 @@
+# Changelog
+
+## 0.2.0 — Quiet Editorial
+
+- Adopt the approved paper-and-ink design in the save popup, with matching light and dark options screens.
+- Put the article title and memo first; group folder selection and tags in a separate filing area.
+- Make the title editable across multiple lines and keep the compact save action visible in the footer.
+- Retain light/dark/system theme selection, Markdown preview, classification, and existing storage/privacy behavior.
+
+This remains a developer preview, not a Chrome Web Store release. Authenticated X interaction and real GitHub/Jev write flows remain outside the tested end-to-end coverage; see the README for limitations.
+
+## 0.1.0
+
+Initial Apache-2.0 public developer preview: GitHub Markdown saves, folder classification, X integration, web article extraction, and light/dark/system themes.

diff --git a/README.md b/README.md
@@ -6,7 +6,9 @@ X のポストや Web ページを、**自分の GitHub リポジトリに Markd
 
 ## 保存画面
 
-実際の拡張画面です（記事・設定・仕分け結果はテスト用サンプル）。本文プレビュー、フォルダ、メモ、タグを確認して保存できます。
+**Quiet Editorial（v0.2.0）**：紙色のライトテーマと墨色のダークテーマ。記事タイトルとメモを主役にし、保存先・タグを下段にまとめた保存画面です。本文プレビュー、フォルダ、メモ、タグを確認して保存できます。
+
+以下は実際の拡張画面です（記事・設定・仕分け結果はテスト用サンプル）。
 
 | ライト | ダーク |
 | --- | --- |
